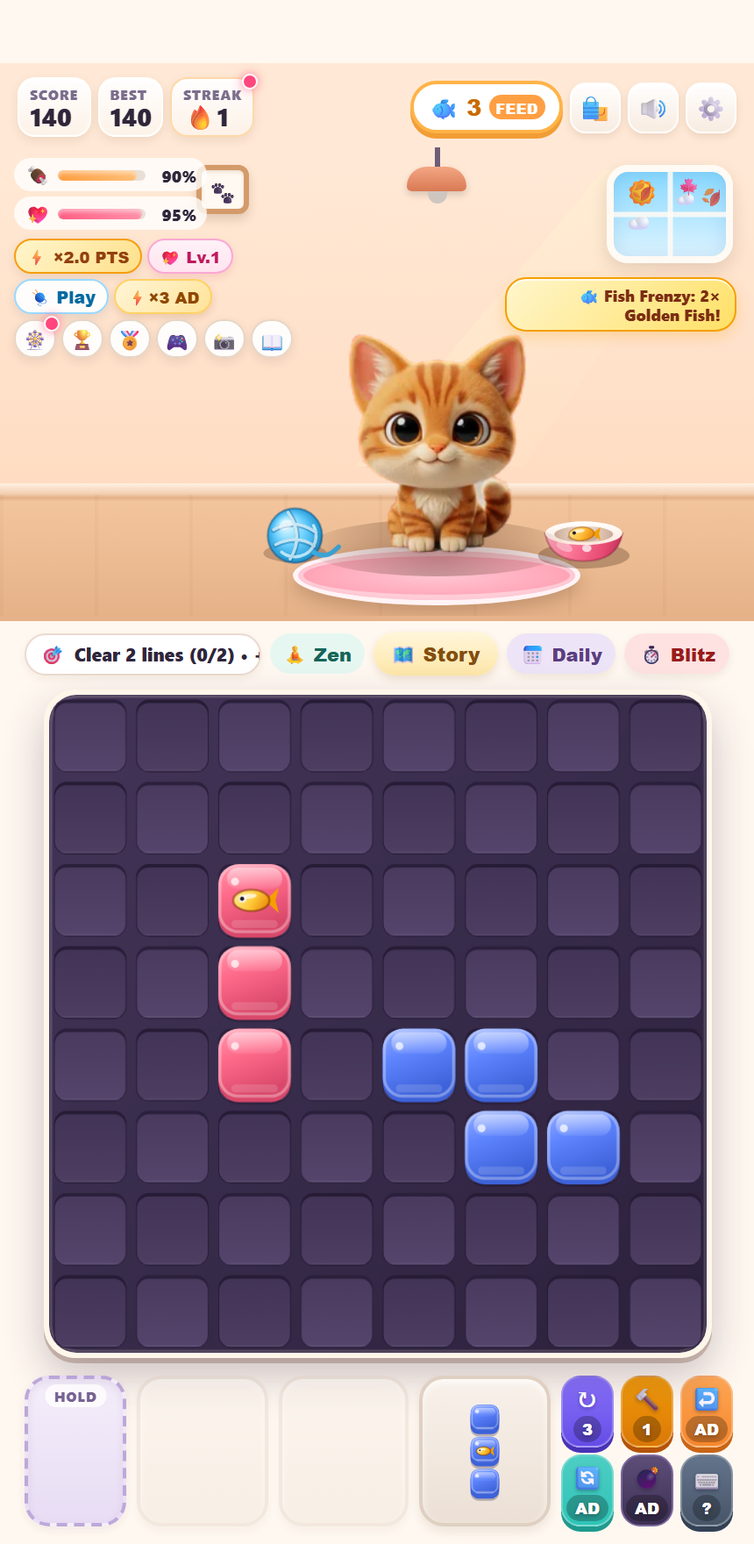
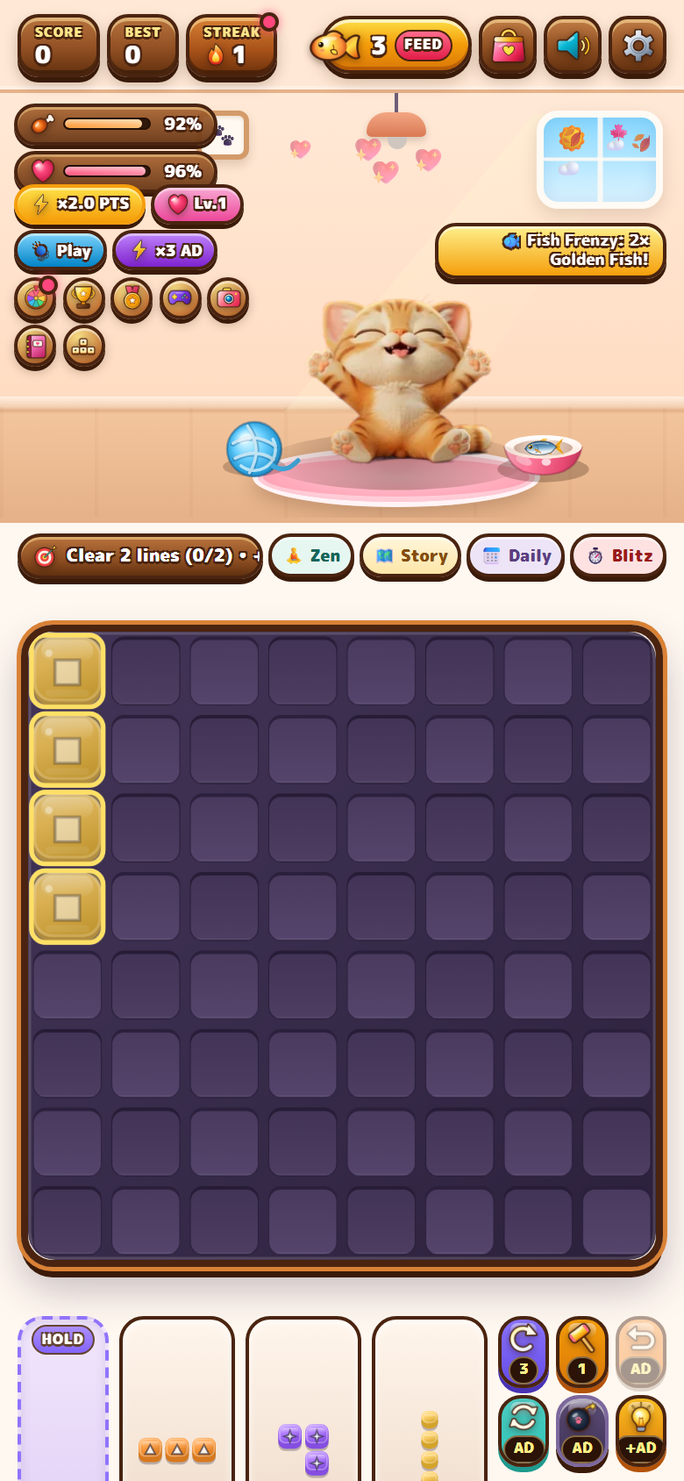
v1.1.0: Update screenshots, CHANGELOG, README & version manifest

diff --git a/README.md b/README.md
@@ -1,98 +1,174 @@
-<div align="center">
+# 🐱 Mochi Pop! — Cozy Pet & Block Puzzle (`v1.1.0`)
 
-# 🐱 Mochi Pop!
+> **Private Repository** — Closed Source / All Rights Reserved (`support@jemangr.app`)
 
-**Cozy 3D Virtual Cat & 8×8 Candy Block Puzzle for Android & Web**
-
-<br />
-
-<a href="https://github.com/jemangr/mochi-pop-puzzle-releases/releases/latest/download/mochi-pop-puzzle.apk">
-  <img src="assets/download-badge.svg" alt="DOWNLOAD APK — mochi-pop-puzzle.apk" width="420" />
-</a>
-
-<br />
-
-<a href="https://jemangr.github.io/mochi-pop-puzzle-releases/">
-  <img src="https://img.shields.io/badge/%E2%96%B6_PLAY_IN_BROWSER-Instant_Web_Demo-ff6b8b?style=for-the-badge&logo=googlechrome&logoColor=white" alt="Play in Browser — Instant Web Demo" height="44" />
-</a>
-
-<br /><br />
-
-<sub>Always points to the latest signed release as <code>mochi-pop-puzzle.apk</code> — <a href="https://jemangr.github.io/mochi-pop-puzzle-releases/">Play Online</a> • <a href="https://github.com/jemangr/mochi-pop-puzzle-releases/releases">View all releases</a> • <a href="CHANGELOG.md">Changelog</a></sub>
-
-<br /><br />
-
-![Latest Version](https://img.shields.io/badge/Latest_Version-v1.0.1-ff6b8b?style=for-the-badge&logo=android&logoColor=white)
-![Android](https://img.shields.io/badge/Android-8.0%2B-3ddc84?style=for-the-badge&logo=android&logoColor=white)
-![Languages](https://img.shields.io/badge/Languages-6-7c5cff?style=for-the-badge)
-![Price](https://img.shields.io/badge/Free_to_Play-Offline_Friendly-ff9f43?style=for-the-badge)
-
-<br /><br />
-
-<img src="assets/flyer.png" alt="Mochi Pop! Promotional Flyer — Cute 3D Kitty & 8x8 Block Puzzle" width="760" />
-
-</div>
-
----
-
-## 📱 Live Gameplay Showcase
+**Mochi Pop!** combines a crisp **8×8 block puzzle** with an expressive **3D Pixar-style virtual cat (Mochi)** living in a customizable cozy room. Keep Mochi fed and happy to power up your puzzle score multiplier, level up Friendship (`Lv.1–50`), spin the **Lucky Tuna Wheel**, collect **12 Sticker Album Cards**, beat **20 Adventure Story Levels (60⭐)**, race **90s Blitz Mode**, use **Smart Hints (`💡`)** & **Toy Hammers (`🔨`)**, play **Laser Dash, Cozy Bakery & Fish Rain**, unlock **10 Trophy Medals**, customize **Photo Studio Postcards**, and climb the **Purr League**!
 
 <p align="center">
-  <img src="assets/screenshot-day.png" alt="Mochi Pop! Sunny Daytime Room & 8x8 Puzzle" width="290" />
-  &nbsp;&nbsp;&nbsp;&nbsp;
-  <img src="assets/screenshot-night.png" alt="Mochi Pop! Cozy Night Lamp & 90s Blitz Mode" width="290" />
-</p>
-
-<p align="center">
-  <em>☀ Sunny Daytime Classic Play &nbsp;&nbsp;•&nbsp;&nbsp; 🌙 Cozy Night Lamp &amp; 90s Blitz Mode</em>
+  <img src="assets/screenshot-day.png" alt="Mochi Pop! Daytime Gameplay" width="300" />
+  &nbsp;&nbsp;&nbsp;
+  <img src="assets/screenshot-night.png" alt="Mochi Pop! Night Lamp & Fairy Lights" width="300" />
 </p>
 
 ---
+
+## ✨ What's New in v1.1.0
+- **🎨 Cozy Honey-Wood & Glossy Candy Bouncy Cartoon 3D UI (`styles.css`, `index.html`, `main.js`, `assets/ui/`):** Replaced OS emojis across the Top HUD, Pet Meters, Social Orbs, Challenge Pill, and all 6 Power-Up buttons with **24 baked 3D cartoon UI icons** framed inside carved honey-oak capsules, recessed wooden slots, and glossy 3D pillow buttons & modals.
+- **🔤 Offline 6-Language Cartoon Typography (`assets/fonts/`, `MainActivity.java`):** Bundled `M PLUS Rounded 1c` (`700/800/900` for Greek, Latin & Latin-Ext) offline with heavy cocoa cartoon outlines across HUD, modals, and Canvas.
 
 ## ✨ What's New in v1.0.1
+- **🐟 Realistic Fish Visual Unification (`pet.js`, `puzzle.js`, `minigame.js`):** Unified procedural 3D ocean-blue/silvery/amber fish rendering across the bowl, dragged treat, feeding arc, board clears, special tiles, and *Fish Rain*.
 
-- **🐟 Realistic Fish Visual Unification (`pet.js`, `puzzle.js`, `minigame.js`):** Unified the fish visuals across the entire app to match the realistic, 3D Pixar-style fish that Mochi holds and eats (steely iridescent ocean-blue dorsal back, pearlescent silver & cream belly, warm translucent amber fins, and glossy eye).
-  - Replaced the old cartoon yellow bowl fish with the realistic 3D vector fish.
-  - Replaced the OS-dependent emoji (`🐟`, which rendered as solid blue on Android) during dragging and feeding arcs with the matching vector fish.
-  - Replaced flying board-clear fish arcs and board emblems with the realistic fish.
-  - Replaced mini-game falling fish targets with the unified realistic fish.
-- **⚡ Floating Board Popups & Blitz Last-10s Urgency:** Crisp floating `+pts` & `🔥 COMBO ×N!` badges right on the 8×8 board, plus a pulsing urgency timer & countdown ticks in the final 10 seconds of **90s Blitz**.
-- **💡 Smart Move Hint (`T` / `💡`):** Evaluates tray moves against clears, combos, and board fit — glowing gold over the best placement (`1 free/run` + Ad refill).
-- **📊 End-of-Run Breakdown Card:** Game Over & Blitz Complete screens summarize *Lines*, *Best Combo*, *Special Pops*, and your exact *Record Gap*.
-- **🎀 Closet Filters & Outfit Set Bonuses:** Filter by **All / Owned / Locked** and equip matching outfits (*Royal Party*, *Cozy Sakura*, *Cool Café*, *Cozy Knit*) for `+10% Friendship XP`.
-- **🐱 Living Mochi Night Dreams & Idle Curiosity:** Mochi dreams of fish, yarn, and crowns when asleep at night and peeks curiously around after idle pauses.
+## ✨ What's New in v1.0.0
+- **⚡ Floating Popups & Blitz 10" Urgency (`puzzle.js`, `audio.js`, `styles.css`):** Crisp floating `+pts` & `🔥 COMBO ×N!` board popups plus pulsing red countdown & ticks during the final 10 seconds of **90s Blitz**.
+- **💡 Smart Move Hint (`puzzle.js`, `main.js`):** Evaluates valid placements and highlights the highest-impact move with a pulsing golden outline (`#btnHint` or hotkey `T`).
+- **📊 End-of-Run Breakdown Card (`index.html`, `main.js`):** Displays *Lines*, *Best Combo*, *Specials*, and *vs Best* record gap on Game Over & Blitz Finish.
+- **🎀 Closet Filters & Outfit Set Bonus (`main.js`, `i18n.js`):** Filter Closet items (**All / Owned / Locked**) and equip matching sets (**Royal Party**, **Cozy Sakura**, **Cool Café**, **Cozy Knit**) for `+10% Friendship XP`.
+- **🐱 Night Dream Bubbles & Idle Curiosity (`pet.js`):** Mochi dreams of fish, yarn, or crowns while sleeping at night and glances curiously around after idle pauses.
+- **☁ Blitz League Tab, GitHub Pages CORS & API Health Check (`server/src/worker.js`, `monetization.js`):** Added **⏱ Blitz** tab in Purr League, `https://jemangr.github.io` CORS + `"blitz"` mode in the Worker, and live **🩺 Test API** latency check.
+
+## ✨ What's New in v0.9.0
+- **⏱ 90s Blitz Rush Mode (`puzzle.js`, `main.js`):** Fast timed arcade mode awarding `+2s / +5s` per clear with its own `blitzBestScore`.
+- **🎯 Hammer Reticle & 💣 3×3 Bomb Outcome Preview (`puzzle.js`):** Shows live `CRACK`/`SMASH` target crosshairs in `hammerMode` and exact block/ice/fish counts on hover when aiming a Bomb.
+- **🎟 Album Pity System & Token Shop (`monetization.js`, `main.js`):** Guarantees a non-duplicate card after 2 duplicates and lets you swap `2 Tokens` for `+1 🔨` or `+1 ↻`.
+- **🐟 Fish Rain Mini-Game, Interactive Lamp & Window, & Theme Music (`minigame.js`, `audio.js`, `main.js`):** Added 3rd mini-game (`Fish Rain`), clickable overhead Lamp (Day/Night) & Window (weather peek), plus unique `Beach` & `Winter` music loops.
+
+## ✨ What's New in v0.8.0
+- **🔨 Toy Hammer Power-Up (`puzzle.js`, `audio.js`, `main.js`, `index.html`):** Smash any single occupied cell or crack 1 Ice/Crate layer on demand (`+2 🔨` via Rewarded Ad when empty).
+- **🌙 Adventure Chapter 5 (`Moonlit Loft`, Lv.17–20 → 60⭐) (`adventure.js`):** Expands Story Mode to **5 Chapters / 20 Levels (60⭐ max)** with late-game `ice + crate` board challenges.
+- **🔁 Seeded Classic Rematches & Live Preview Points (`puzzle.js`, `main.js`):** Replay the exact Classic piece sequence via **🔁 Rematch Same Seed** (`currentRunSeed`), plus live `+pts` point previews inside hover line-clear badges.
+- **📖 Mochi's Diary, Chin-Scratch Petting & Photo Studio Stickers (`pet.js`, `main.js`, `index.html`):** Zone-aware petting (`getPetZone`: extra blissful chin purr & ear hearts), unlockable Album sticker stamps on `540×680` postcards, and **📖 Mochi's Diary** logging meals, achievements, postcards, and Story milestones.
+- **🎵 Mini-Game Music, Crate Crack Audio, Keyboard Legend & PWA Update Toast (`audio.js`, `main.js`, `index.html`):** Dedicated upbeat `Laser Dash` / `Cozy Bakery` music loops, wood crate crack & achievement sounds, `⌨` Keyboard Controls cheat sheet, and non-blocking PWA refresh toast.
+
+## ✨ What's New in v0.7.0
+- **🏅 Trophy Room & Achievements (`achievements.js`):** 10 evaluated milestones (`lines`, `score`, `combo`, `stars`, `closet`, `album`, `friend_15`) with progress bars, notification badge, and claimable bonus `🐟` rewards.
+- **🌿 Adventure Ch.4 & 🍪 Cozy Bakery (`adventure.js`, `minigame.js`):** Wooden berry crates (`crateCells`), targeted color-clear goals, and a 2nd mini-game mode (`Cozy Bakery`).
+- **⚡ Friendship Lv.15–50 Perks, Offscreen Cache & Accessibility (`monetization.js`, `puzzle.js`, `styles.css`):** Score multiplier perks up to `1.15×`, `bgCacheCanvas` frame cache, full keyboard controls (`1/2/3`, `Arrows/WASD`, `Space/Enter`, `H`, `R`, `Esc`), `viewport-fit=cover`, `:focus-visible`, and `⭐ Stars` leaderboard tab.
+
+## ✨ What's New in v0.6.0
+- **🗺 Adventure Chapters, 🎮 Catch the Laser & 📸 Photo Studio:** 3 initial Story chapters, canvas mini-game, live Closet Mochi preview, and seeded Friend Challenges (`MCH:<seed>:<score>:<name>`).
+
+## ✨ What's New in v0.5.8
+- **🏠 Cozy Room & 3D Toy/Gadget Overhaul (`pet.js`, `styles.css`):** Added baseboard molding + subtle wood-plank flooring, 4-pane window mullions, stitched double-rim rugs centered neatly under Mochi across mobile and tablet (`≥ 840px`), larger tablet Mochi proportions, readable mobile Playtest bar, and 3D Pixar-shaded props (`_drawFoodBowl` with vector golden fish, yarn, mouse, feather wand, laser beam, fountain, feeder, catnip plant, tower, wheel, vector songbird).
+- **🍬 Jewel 3D Candy Blocks & Vector Special Emblems (`puzzle.js`):** Carved checkerboard 8×8 recessed slots, inlaid outer board bevel, pulsing golden row/col clear preview highlights, multi-stop diagonal candy block fills with specular glass capsules, faceted crystal ice, and custom 2D vector canvas emblems for `fish`, `bomb`, `gift`, `rocket`, `rainbow`, and `tuna`.
+
+## ✨ What's New in v0.5.7
+- **🐱 Clean Default Mochi & Intuitive `🛍` Closet Button (`pet.js`, `main.js`, `index.html`):** Mochi now starts clean with no accessories or collar equipped by default, and the top-right Closet button uses a clear `🛍` icon instead of `🎩`.
+- **✨ 3D Pixar-Shaded Accessories & Collars (`pet.js`):** Completely upgraded visual detail on every crown (velvet dome + faceted gems), satin bow, glossy Wayfarer sunglasses, knitted scarf, padded headphones, pleated chef hat, plush bear ears, notched sakura blossom, seeded strawberry, star wizard hat, and stitched bell collars.
+
+## ✨ What's New in v0.5.6
+- **🎀 Motion-Tracked Kitty Accessories (`assets/sprites/manifest.js`, `pet.js`):** Hats, crowns, bows, headphones, sunglasses, scarves, and bell collars now interpolate smoothly frame-by-frame across all 19 visible `.webp` animation loops — tilting, bobbing, and mirroring in sync with Mochi (including side-profile `shades` while walking instead of disappearing).
+
+## ✨ What's New in v0.5.5
+- **👆 UI & Touch Ergonomics (`puzzle.js`, `styles.css`):** Live `✨ 1 LINE!` / `🔥 2 LINES!` ghost clear indicator, configurable **Touch Drag Height** (`Low / Normal / High`), compact narrow-phone HUD, and **Tablet Quick-Care Dock** (`💕 / 🧶 / 🎩 / 🎨`).
+- **🌤 Seasonal Window Weather, Ad-Free Archive & Special Tips:** Dynamic seasonal weather + Winter Heater cozy buff, `🐟 15 / 📺 Ad Free` Archive choice bar, and 1-time tooltips for special blocks.
+- **🌐 Installable Web PWA & Local `.json` Backup (`manifest.webmanifest`, `sw.js`):** Full offline browser precaching + JSON Save Export/Import inside Cloud & Backup.
+
+## ✨ What's New in v0.5.0
+- **🗓 Daily Challenge Monthly Archive (`daily-archive.js`):** Full monthly calendar inside Daily Rewards — replay missed seeded days (`15 🐟`) and earn `7d / 15d / Full Month` milestone Fish rewards.
+- **🏆 Weekly Purr League Season Rewards (`league-rewards.js`):** Claim end-of-season Fish (`+10` to `+60 🐟`) and Season Trophies for prior ISO weeks.
+- **🎨 Colorblind Symbols & 🔋 30 FPS Power Saver:** Distinct vector geometric glyphs on every block (`#toggleColorblind`) and calm reduced-motion 30 FPS loop (`#togglePowerSaver`) across all 6 languages.
+- **⚙ Modular Architecture & CI (`.github/workflows/ci.yml`):** Extracted `daily-archive.js` & `league-rewards.js` and added automated GitHub Actions CI + expanded `tests/run_tests.py`.
+
+## ✨ What's New in v0.4.6
+
+- **📱 Native Android Polish (`MainActivity.java`, `MochiShareProvider.java`):** Modal-aware Back button + double-tap exit guard, native Score Card Share Sheet, and Android `Vibrator` haptic feedback bridge.
+- **🛡 Cloud Backend Hardening & GDPR Self-Delete (`server/`, `monetization.js`):** IP rate limiting, live `POST /v1/profile` Nickname sync (+ inline Leaderboard Nickname prompt), and 2-tap **🗑 Delete My Cloud Data** (`DELETE /v1/account` / `POST /v1/account/delete`).
+- **🌙 Night Mode Music & Tablet Landscape (`audio.js`, `styles.css`):** Gentle Night lullaby melody when the lamp is on, plus a responsive 2-column layout on tablets/desktops (`≥ 840px`).
+- **🧪 Automated QA Suite (`tests/run_tests.py`):** In-browser unit + E2E tests verifying Puzzle determinism, Back hook, Privacy Policy, Tablet layout & Cloud sync.
+
+## ✨ What's New in v0.4.5
+
+- **🧹 Supporter Pass & Billing Removal (`index.html`, `main.js`, `monetization.js`, `version.json`, `PRIVACY_POLICY.md`, `privacy.html`):** Removed the Cozy Supporter Pass UI, daily bowl bonus, `supporterDailyFish` remote-config key, and Google Play Billing references; updated Settings tab to **📖 Guide & Stats** and kept AdMob + live `api.jemangr.app` disclosures.
+
+## ✨ What's New in v0.4.4
+
+- **☁ Live Leaderboard & Cloud Save (`https://api.jemangr.app`):** Powered by Cloudflare Workers + D1 (`server/`), **🏆 Purr League** now fetches live Daily, Weekly, and All-Time standings with graceful offline fallback, and **☁ Cloud Save & Device Transfer** lets you sync & restore progress across devices using an anonymous `MOCHI-XXXX-XXXX` transfer code.
+- **🛡 Google Play Protect Fix & Safe Updates (`AndroidManifest.xml`, `MainActivity.java`):** Removed `REQUEST_INSTALL_PACKAGES` and in-app APK downloading/sideloading completely; update checks now open official releases safely in the external browser.
+- **🔒 Bilingual In-App Privacy Policy (`PRIVACY_POLICY.md`, `privacy.html`):** Offline-capable EN/EL Privacy Policy modal in **Settings → App**, plus dedicated `privacy@jemangr.app` & `support@jemangr.app` addresses.
+- **🟡 Squeezy Ball & Per-Toy Sounds (`audio.js`, `main.js`):** Dedicated audio profile per interactive toy with `toy_squeak.mp3` wired exclusively to the **Squeezy Ball**.
+
+## ✨ What's New in v0.4.3
+
+- **🖼 Clean Stage Layout (`pet.js`, `styles.css`):** Shifted Mochi's stage anchor & roam bounds cleanly rightwards, compacted left HUD pills, and relocated `.wall-frame` & `.stage-event-pill` so pills never overlap Mochi or her bowl.
+- **🔇 Background Audio Auto-Pause (`audio.js`, `MainActivity.java`):** Switching tabs or backgrounding the Android app immediately suspends WebAudio, stops the Kalimba loop, and pauses all MP3 clips (resuming cleanly on foreground).
+- **⚙ 3-Tab Settings & `jemangr.app` Showcase (`index.html`, `i18n.js`, `main.js`):** Regrouped Settings into **🎮 Game**, **👑 VIP & Info**, and **📱 App** tabs with responsive `dvh` bounds so nothing clips on small screens, plus an **Our Other Apps (`jemangr.app`)** card.
+
+## ✨ What's New in v0.4.2
+
+- **🌍 Complete 6-Language Localization (`el`, `en`, `de`, `es`, `fr`, `tr`):** Localized all remaining dynamic strings across HUD pills (`×2.0 ΠΟΝΤ.`, `Επ.1`, `🧘 Χαλαρά`), weekend/Wednesday event banners (with live refresh on language switch), puzzle cravings, onboarding welcome & Mochi speech bubbles, Daily Calendar & Streak Saver, Quests & Wall Stickers, Closet categories, Audio Mixer channels, Stats cards, Bug Report, Rewarded/Interstitial Ad demos, and Game Over modal.
+- **📱 Android APK Asset Fix (`v0.4.1`):** Fixed Windows `build-apk.py` zip asset separators to POSIX `/` so bundled offline `www/` assets load reliably inside Android WebView (`zipalign` + `apksigner` v2+v3 verified).
+- **🛡 Smart Interstitial Gate, Remote Config & Funnel Analytics (`monetization.js`):** Zero forced ads on Day 0, `≥3`-run & `210s` cooldown gate, `120s` **Rewarded Immunity Shield**, live `version.json` Remote Config merge, native `MochiAdBridge` / `MochiNativeAnalytics` hooks, and an in-game **📊 Stats & Funnel** inspector in Settings (`⚙`).
+- **🎡 Lucky Tuna Wheel & 📸 12-Card Sticker Album:** 1 Free daily spin + up to 3 Bonus Ad spins/day for Golden Fish, `↻` Rotates, or **Mochi Moments** sticker cards (`3 sets × 4 cards` with `+12/+18/+24 🐟` set completion bonuses in Daily → `📸 Album`).
+- **💖 Friendship Level (`Lv.1–50`), 🎉 Mini-Events & 🏆 Purr League:** Earn Friendship XP for permanent `+1`/`+2` starting `↻ Rotate` perks, enjoy **🐟 Fish Frenzy (`2×`)** weekends & **🚀 Rocket Surge (`2×`)** Wednesdays, and compete in Daily/Weekly Purr League standings with your Nickname.
+- **📺 High-ROI Rewarded Flows:** **2× Run Fish** + **Rescue Pack (`+3 ↻ + 1 💣`)** on Game Over, once-per-run **🎁 Upgrade (`+4 🐟 + Card`)**, and **Closet `Watch-Ad (0/3)`** alternative unlocks on premium items.
+- **🔔 Native Android Scheduled Care Alarms (`MochiAlarmReceiver.java`):** Localized (`el/en/de/es/fr/tr`) background reminders when Mochi is hungry or sulking.
+
+## ✨ Earlier Releases (`v0.2.0` + `v0.3.0`)
+
+- **🌍 6-Language Support (`el`, `en`, `de`, `es`, `fr`, `tr`) & Nickname (`i18n.js`):** Instant language picker & nickname setup on first launch or inside **Settings (`⚙`)**, rendered live across the UI, Score Cards, and guide.
+- **📖 5-Step Welcome Guide & Interactive Permissions:** Explains Mochi's care & energy multiplier, puzzle specials & moves, rewards/closet, and requests Notifications, Haptics & APK install permissions cleanly on first run (reopenable from Settings).
+- **🥫🚀🌈🎁 Special Tiles & Tactics (`puzzle.js`):** Golden Tuna (`+2 🐟`), Mystery Gift Box (`🎁`), Yarn Rocket (`🚀` cross-line burst), Rainbow Color-Clear (`🌈`), **Hold Pocket (`HOLD`)**, **90° Rotate (`↻`)** with earned charges + Ad refill, **🧘 Zen Mode**, Color Harmony (`×1.5`), Full-Board Clear (`+1000`), Milestone Waves, Smart Magnetic Snap, Cascade Clear, and **4 Tile Skins** (`Classic`, `Cat Paws`, `Choco Cookies`, `Cyber Neon`).
+
+## ✨ Highlights from v0.2.0
+
+- **21 Animated Pixar-Style Sprite Loops (`assets/sprites/*.webp`):** Smooth `4×4` transparent WebP atlases (`idle`, `walk_side`, `sleep`, `eat`, `drink`, `cry`, `sulk`, `sulk_2`, `pet_1..3`, `cheer`, `fainted`, `groom`, `nervous`, `dance`, `yawn`, `tickle`, `play_pounce`, `track_toy`, `fever_party`) with accessories & bell collars attached dynamically.
+- **Audio & 3-Channel Sound Mixer (`audio.js`):** 13 normalized MP3 voice/SFX clips (`meow_1`, `meow_2`, `purr`, `eat`, `cry`, `sulk`, `yawn`, `fainted`, `sneeze`, `water_lap`, `kibble_pour`, `toy_squeak`, `bell_jingle`), background kalimba carpet, and separate volume/mute sliders for **Music**, **Game SFX**, and **Cat Sounds**.
+- **7-Day Daily Rewards Calendar & Quests (`#dailyModal`):** Looping Day 1–7 calendar with Free Claim + Rewarded Ad Super Bonus, missed-day **Streak Saver**, Day 5 `Snack Dispenser`, Day 7 Grand Prize (`🧙 Star Wizard` + `🏰 Cat Tower`), plus Quests that unlock Wall Frame Stickers (`👑`, `🌟`, `💖`).
+- **Energy Multiplier, Purr Rush & Power-Ups:**
+  - Mochi's energy dynamically scales puzzle score (`×0.75` up to `×2.0`).
+  - **Purr Rush (Fever Mode):** Triggers for `30s` at high energy (`≥ 90%`) + `Combo ≥ x3`, doubling Golden Fish frequency and adding `+0.5×` multiplier.
+  - **High-Value Rewarded Ads (Demo Flow):** `⚡×3.0 Overdrive` (15 moves) & `💣 Emergency Paw Bomb` (`1×1` board clear piece), alongside Undo, Refresh, and Rescue/Revive.
+- **Interactive Room Gadgets, Toys & Themes:** Yarn Ball, Wind-Up Mouse, Feather Wand, Laser Pointer, Water Fountain (`drink` loop + `-30%` decay), Daily Snack Dispenser, Window Bird Feeder, Heated Cushion, Scratching Wheel, Catnip Plant, Fairy Lights, and `Peach Cozy` / `Sunny Beach` / `Snowy Cozy` themes.
+- **Easter Eggs & Polish:** Uninterrupted 6-tap rapid nose-tickle sneeze (`ACHOO!!`), Dramatic Faint (`24h+` away), Playtest Tools bar (auto-hidden in production builds unless `?demo=1`), and local notification schedule planner.
 
 ---
 
-## 🎮 Key Features
+## 📁 Project Structure
 
-| Feature | Highlights |
-| :--- | :--- |
-| 🧩 **8×8 Puzzle Modes** | Play **Classic**, **🧘 Zen**, **⏱ 90s Blitz**, **📖 20 Story Levels (60⭐)**, **☀ Daily Seeded Challenge**, or **MCH:** Friend Challenges with **Hold / Rotate / Hammer / Hint / Refresh / Bomb / Undo**. |
-| 💥 **Special Tiles & Smart Previews** | Crack 2-hit **Ice** & **Wooden Crates**, detonate **3×3 Bombs** with live area counts, launch **Rockets**, pop **Rainbow** crystals, and see live `+pts` / `🔥 COMBO!` popups. |
-| 🐾 **Living 3D Pet (Mochi)** | Pet Mochi's ears, chin & belly, feed realistic fish treats, tap the **Lamp** or **Window**, watch her **Night Dreams**, log memories in **Mochi's Diary**, and climb **Friendship Lv.1–50**. |
-| 🐟 **3 Cozy Mini-Games & 🏅 Trophy Room** | Play **🔴 Laser Dash**, **🍪 Cozy Bakery**, and **🐟 Fish Rain Catcher**, and unlock **10 Trophy Medals**. |
-| 🛍 **Closet Sets, Album Pity & Photo Studio** | Filter outfits, activate **+10% XP Costume Sets**, unlock cards with **Duplicate Pity + Token Trades**, and design `540×680` **Postcards**. |
-| 🗓 **Monthly Archive & Cloud Backup** | Replay missed Daily Challenges, claim **Purr League** standings (**Daily / Weekly / Blitz / All-Time / ⭐ Stars**), and transfer progress via `MOCHI-XXXX-XXXX` codes or `.json`. |
-| 🔊 **Audio Mixer & Accessibility** | Independent Music (Peach, Night, Beach & Winter loops), SFX & Cat voice sliders, 6 languages (`EN / EL / DE / ES / FR / TR`), **Colorblind Shapes**, and **30 FPS Power Saver**. |
-
----
-
-## 📲 How to Play or Install
-
-- **🌐 Play Instantly in Browser:** Open **[https://jemangr.github.io/mochi-pop-puzzle-releases/](https://jemangr.github.io/mochi-pop-puzzle-releases/)** on desktop or mobile (installable as an offline PWA).
-- **📱 Install on Android (`8.0+`):**
-  1. Tap **[DOWNLOAD APK](https://github.com/jemangr/mochi-pop-puzzle-releases/releases/latest/download/mochi-pop-puzzle.apk)** above to download `mochi-pop-puzzle.apk`.
-  2. Open the downloaded `.apk` on your Android device and allow *"Install unknown apps"* if prompted.
-  3. Future updates notify you inside **Settings → Check for App Update**.
+- `index.html` — Mobile-first viewport, HUD, Daily Rewards/Quests, Wardrobe, Sound Mixer, Settings & Error Report modals.
+- `styles.css` — Pastel styling, day/night room lighting, themes, responsive phone shell, modal & animation styles.
+- `i18n.js` — Localization dictionary (`el`, `en`, `de`, `es`, `fr`, `tr`) & automatic DOM translation.
+- `monetization.js` — Smart Interstitial Gate, Remote Config merge, `MochiAnalytics` funnel tracking, Wheel prizes, 12-Card Sticker Album, Friendship Levels (`Lv.1–50`), Mini-Events & Purr League generator.
+- `pet.js` — `MochiPet`: 60 FPS sprite atlas renderer + canvas fallback, pointer look-tracking, prop walking, accessories, collars, room gadgets, particles.
+- `puzzle.js` — `PuzzleEngine`: 8×8 block puzzle, weighted shapes, Special Tiles (`🐟`, `🥫`, `🎁`, `🚀`, `🌈`, `🧊`, `💣`), Hold Slot, 90° Rotate, Zen Mode, Tile Skins, ghost preview & energy multiplier.
+- `audio.js` — `SoundEngine`: Web Audio API music loop + 13 MP3 SFX clips + 3-channel mixer.
+- `main.js` — Persistence (`localStorage`), offline hunger/mood decay, 7-day Daily Calendar & Quests, Wardrobe/Shop, Demo Rewarded Ads, diagnostics & PNG Score Card export.
+- `android/` — Native Android WebView wrapper (`MainActivity.java`, `AndroidManifest.xml`, adaptive launcher icon) serving bundled assets cleanly via `https://appassets.mochi.local`.
+- `scripts/build-apk.py` — Zero-dependency Python builder using `aapt2`, `javac`, `d8`, `zipalign`, and `apksigner` to produce signed `dist/mochi-pop-puzzle.apk`.
+- `server/` — Cloudflare Workers API (`src/worker.js`, `wrangler.toml`) + D1 SQL schema (`schema.sql`) powering live leaderboards & cloud saves at `https://api.jemangr.app`.
+- `tests/run_tests.py` — Automated browser unit + E2E QA suite (`360×800` mobile, `1024×768` tablet, Cloud sync & Daily determinism).
+- `PRIVACY_POLICY.md` & `privacy.html` — Bilingual (EN/EL) Privacy Policy (also embedded offline inside Settings → App).
+- `CHANGELOG.md` — Version history (`v0.5.8`, `v0.5.7`, `v0.5.6`, `v0.5.5`, `v0.5.0`, `v0.4.6`, `v0.4.5`, `v0.4.4`, `v0.4.3`, `v0.4.2`, `v0.4.1`, `v0.4.0`, `v0.3.0`, `v0.2.0`, `v0.1.0`).
+- `version.json` — Remote auto-update manifest & live `remoteConfig` values.
+- `TODO.md` — Roadmap for live AdMob SDK & Play Store launch.
+- `assets/` — Compiled `sprites/*.webp`, `sounds/*.mp3`, reference art, and documentation screenshots.
 
 ---
 
-## 🔗 Links & Legal
+## 📱 Build & Preview
 
-- ▶ **Play in Browser:** [https://jemangr.github.io/mochi-pop-puzzle-releases/](https://jemangr.github.io/mochi-pop-puzzle-releases/)
-- 🌐 **Official Website:** [https://jemangr.app](https://jemangr.app)
-- 📦 **All Releases:** [GitHub Releases](https://github.com/jemangr/mochi-pop-puzzle-releases/releases)
-- 📝 **Release History:** [CHANGELOG.md](CHANGELOG.md)
-- 🔒 **Privacy Policy:** [PRIVACY_POLICY.md](PRIVACY_POLICY.md)
-- ✉ **Support:** `support@jemangr.app`
+### 1. Android APK (`dist/mochi-pop-puzzle.apk`)
+
+```powershell
+python "scripts/build-apk.py"
+```
+
+Outputs a v2+v3 signed, zipaligned APK (`dist/mochi-pop-puzzle.apk` and `dist/mochi-pop-puzzle-v0.5.8.apk`).
+
+### 2. Local Web Preview
+
+Serve locally (recommended for MP3/WebP loading) or open `index.html` directly:
+
+```powershell
+python -m http.server 8778 --directory "c:\Claude\puzzle game"
+```
+
+Desktop/localhost builds automatically display the top **Playtest Tools** bar (`+6h Away`, `+14h Sulk`, `+48h Faint`, `⏭ +1 Day`, `☀/🌙 Day/Night`, `😴 Wake`, `Test Cry/Lose`, `+5 Fish`, `Reset`). It hides automatically on production domains & inside the Android APK (can be forced via `?demo=1` or suppressed locally via `?prod=1`).
+
+---
+
+## 📦 Releases Repository
+
+Public showcase & direct downloads (Android `.apk` + Web `.zip`) live at **`jemangr/mochi-pop-puzzle-releases`**:  
+[`https://github.com/jemangr/mochi-pop-puzzle-releases/releases`](https://github.com/jemangr/mochi-pop-puzzle-releases/releases)

diff --git a/CHANGELOG.md b/CHANGELOG.md
@@ -1,5 +1,13 @@
 # Changelog — Mochi Pop!
 
+## [1.1.0] - 2026-11-21
+### Added & Improved
+- **🎨 Cozy Honey-Wood & Glossy Candy Bouncy Cartoon 3D UI (`styles.css`, `index.html`, `main.js`):**
+  - Replaced plain flat HUD badges & OS-dependent emojis with **24 bespoke 160×160 3D cartoon `.webp` UI icons** (`assets/ui/*.webp`) sporting cocoa-chocolate `#4a2410` outlines and glossy candy shading.
+  - Upgraded the Top HUD, Pet Meters (`Hunger` & `Mood` with dynamic sad-heart feedback), floating Social/Feature medallions (`🎡`, `🏆`, `🏅`, `🎮`, `📸`, `📖`, `⌨`), carved 8×8 wooden board bezel, recessed piece tray slots, 6 glossy 3D pillow power-up buttons, and carved honey-oak modals.
+- **🔤 Offline 6-Language Rounded Cartoon Typography (`assets/fonts/*.woff2`, `MainActivity.java`):**
+  - Bundled `M PLUS Rounded 1c` (`700/800/900`) locally across `greek`, `latin-ext`, and `latin` subsets (`MochiDisplay`) with `.woff2` WebView MIME serving so all 6 languages (`EL`, `EN`, `DE`, `ES`, `FR`, `TR`) render offline with thick cartoon outlines across HUD, modals, and Canvas.
+
 ## [1.0.1] - 2026-11-17
 ### Added & Improved
 - **🐟 Realistic Fish Visual Unification (`pet.js`, `puzzle.js`, `minigame.js`):**
